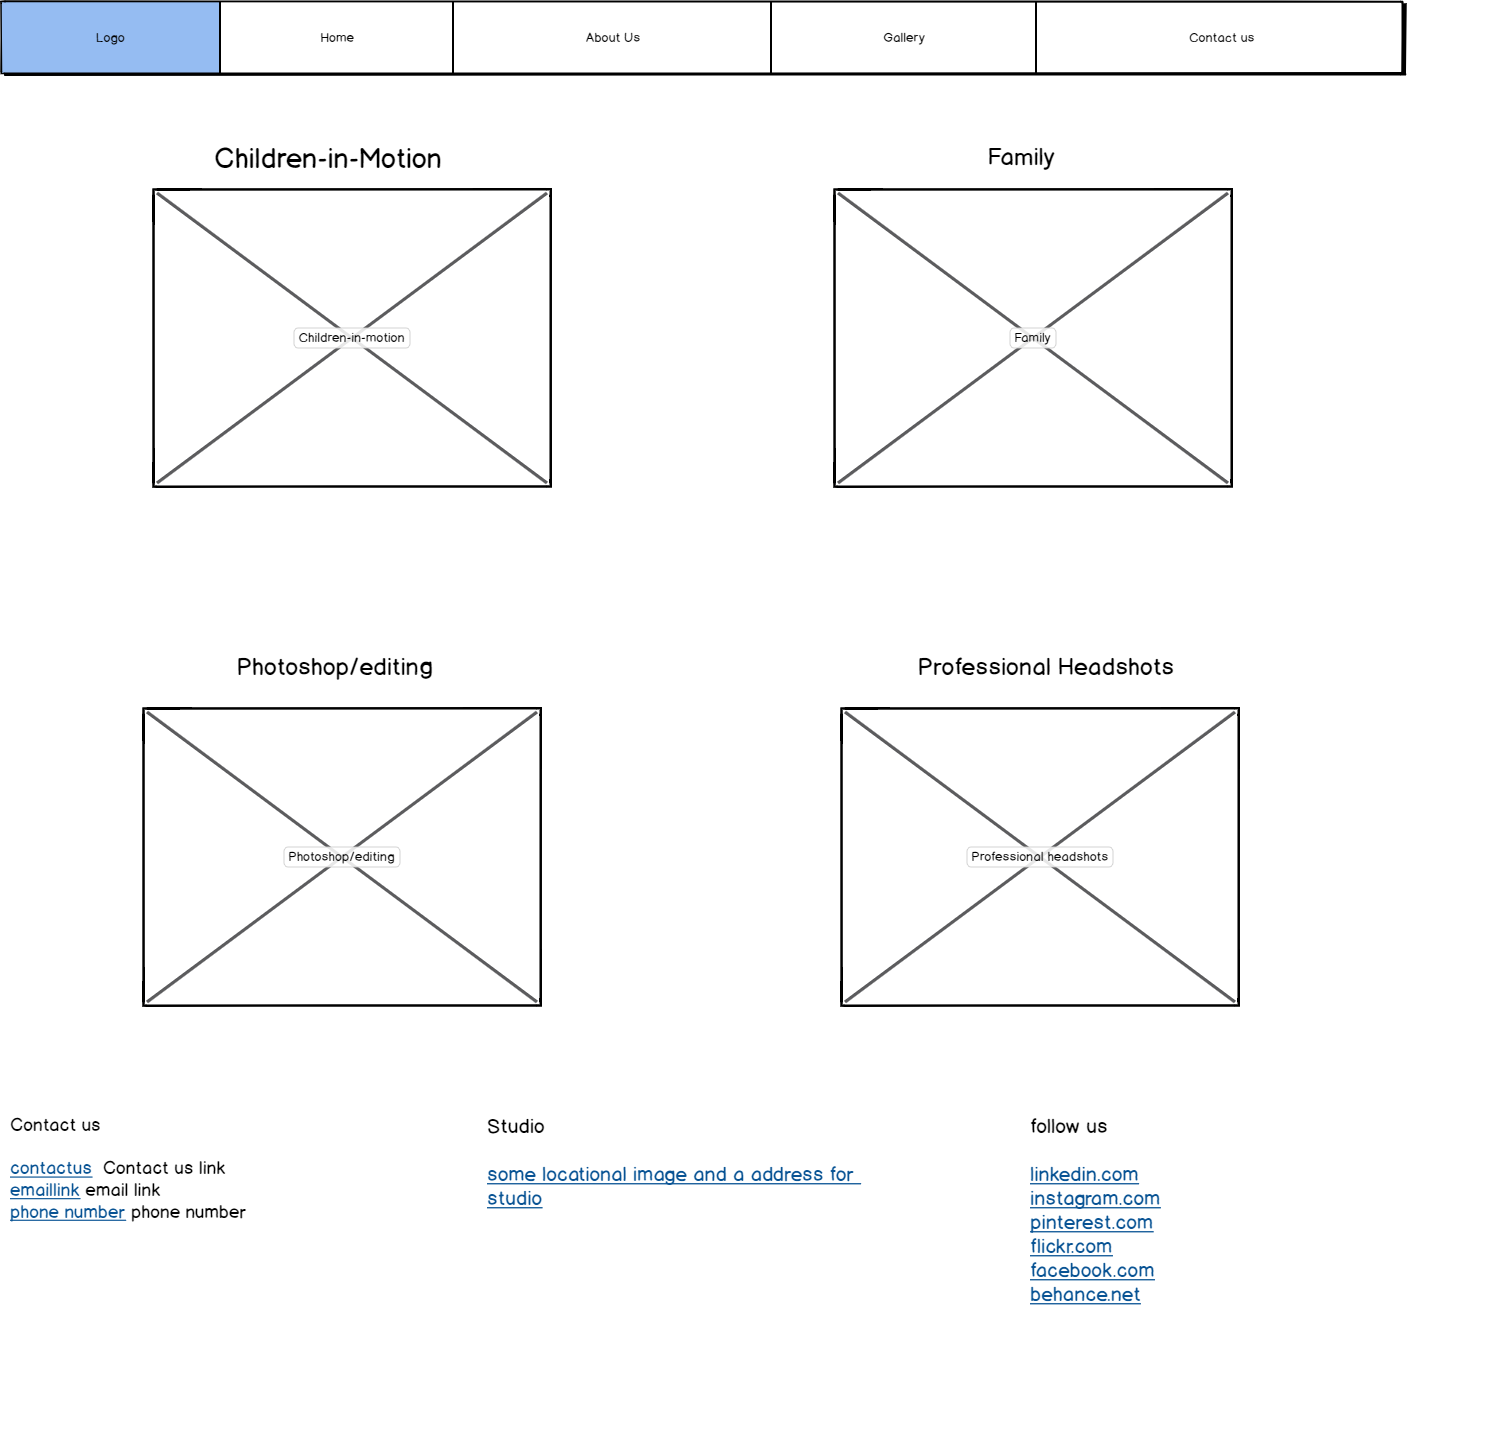
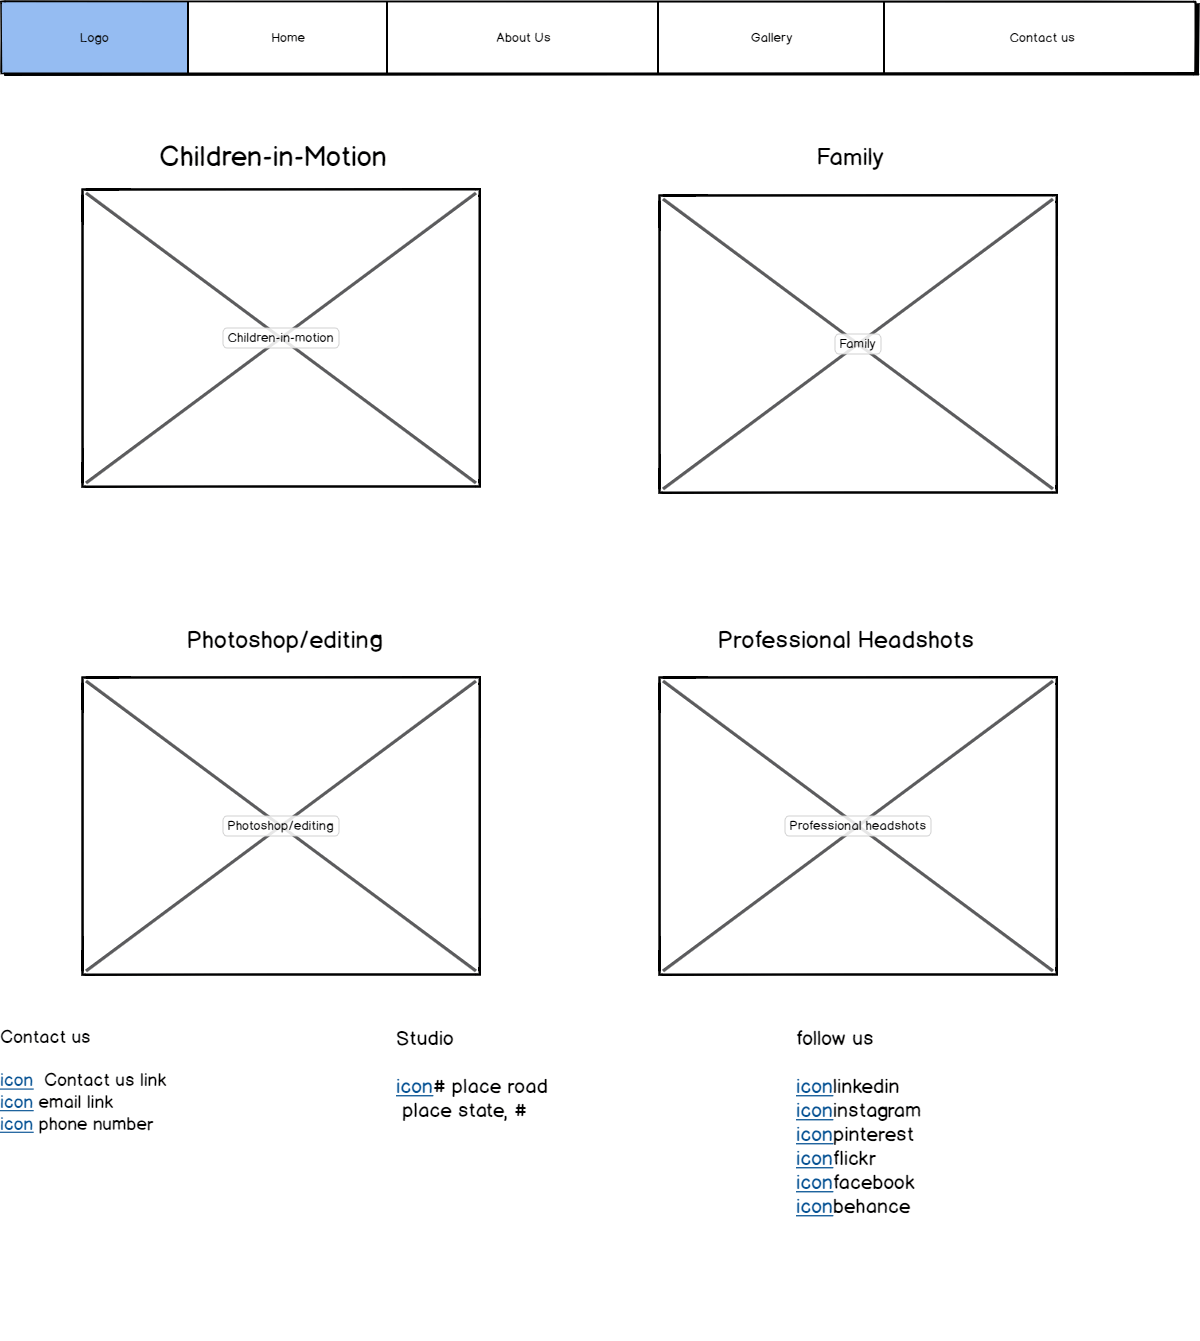
Minified file size of all images and wireframe, added brainstorm and first draft for read me, added phone wireframes

diff --git a/assets/css/css.css b/assets/css/css.css
@@ -63,11 +63,11 @@ hr {
     }
 }
 
+/*    ------------------------- index  carousel          ------------------*/
+
 .hero-carousel-pad {
     background-color: #010203;
 }
-
-/*    ------------------------- index  carousel   buttons       ------------------*/
 
 .hero-carousel div a:hover {
     background-color: rgba(238, 238, 238, .1);
@@ -540,6 +540,9 @@ hr {
 }
 
 .contact-header h3 {
+    font-family: "Yanone Kaffeesatz", sans-serif;
+    letter-spacing: 1px;
+    font-size: 40px;
     padding: 17px 0px 7px 0px;
 }
 

diff --git a/README.md b/README.md
@@ -1,123 +1,113 @@
-![alt text](assets/images/logo.png)
+![Monachese Photography](assets/images/logo.png "Monachese Photography")
 
 # Monachese Photography
-*--sales pitch--*
 
-This page shows the value provided by a professional photographer with editing skills. By showcasing a variety of different photos, photo taking techniques, and editing effects this helps 
-build a emotional value to product provided. With an obvious market of parents and grandparents applied to there is also others applied to: those wanting professional portraits taken, people
-wanting their photo's(or a photo taken that can be) turned into a frameable work of art, and real estate landscape photos taken(due to scope of project not implimented yet).
+This site allows a photographer's company to show off their brand and ability to digitally improve photos. The implied clientele is parents and grandparents, however this site
+also applies to a smaller market of young adults seeking business portraits and those seeking to digitally improve previously taken photo's.
 
-a 
+# Live Protype Demo and Wire Frame
 
-This website showcases a single photographer's aptitude for being behind the lens of his camera and using visual editing software. 
++ An active demo can be found [here](https://richardaeld.github.io/MonaMemorabilia/ "Web Page") at github. 
++ The wire frame png's can be found [here](https://github.com/Richardaeld/MonaMemorabilia/tree/master/assets/wireframe "Wire Frame") also at github.
 
-The main focus of this photographer is the emotional value of personal family moments. This  
+# UX Choices
 
-The art shown has family The main focus of this website is showcasing images that give emotional worth.    
+### Home
 
-There is a large focus on family photography to appeal to parents and grandparents alike.  To a lesser degree there are  
++ Shows off four eye drawing images in carousel
++ Gives a brief description of general services offered
 
+### About Us
 
-The focus of these photographs is mostly family portraits and children. There are other photographs that display a more artistic and formal side to this photographer. The family
-and children sections of photos is for selling photos to parents and grandparents. The portrait section is for selling to busisness women/men for professional porfolios. Finally
-the Digital Editing section is for selling artwork. The idea of this section is to appeal the largest clientel as possible. Changing a photo into a work of art is fairly simple
-and should yeild a greater profit with the upsale of a picture frame.
++ Hero image showing the difference with and without color grading
++ A text section emphasizing the above and beyond work offered by the company 
 
-The site is structured to give people a strong visual interest in the product being sold. With minimual use of text and an about us section that is about the user and improving
-their experience. This helps make the potiental client curious about the product and makes them want to communicate with the company. The lack of pricing was a tactful choice to 
-keep potiental clients from feeling like they cannot afford this service. This gives the site a chance to communicate as a person to person sales tactic.  The site may not make a 
-sale everytime but it gives an oppertunity to negociate a price and attempt an upsale rather than immediately losing a customer.  
+### Gallery
 
-*--ux--*
++ Makes use of negative space to draw the eye to four sub gallery links
++ Zoom feature when hovering over images to help confer it's a link
 
-The main purpose of this site is to sell session time blocks and digital editing packages. From the first page it highlights 4 different styles of photography   
+### Sub Gallery (all pages)
 
-*--features--*
++ Back button to main gallery and a two way in page nav for user convience
++ All images have an added border and shadow to give a 3 dimensional effect to help draw the eye
 
-# *site wide header*
-*4 major links for site navigation
-*a company logo that lives in the left corner which doubles as a Home nav button
-*collapses into a drop down list when to small to displat correctly, leaving only a burger and logo visiable
+### Contact us
 
-# *site wide footer*
-*footer has 3 clickable methods of contact on it 
-*a clickable location for the non-existant studio,  ***Cannot get it to display an accurate location 
-*6 clickable social media options for following that also display a simple css hover effect for added charm
++ Simple submission form that prevents users from accidently submitting without filling in contact information
++ Fitted with plenty of space for users to submit a well thought out idea or multiple questions
 
-# *Index.html*
-*responsiveness changes hero text-size 
-*Hero carousel used to help showcase some impressive and diverse photos on this page
-*Sub hero text is used to give clients a basic idea of sessions and extras offered and a push to give a comepletely custom session idea
+### Brand identity
 
-# *about us*
-*Large hero image of the editing service offered on the site with a header exclaiming the professional difference
-*3 text block catagories talking about what sets this company appart from the rest
++ fonts used
++ carries out logo colors
++ that last thing I can think of
 
-# *gallery*
-*heavy use of grey space to help 4 images stand out
-*a clean zoom effect used to show a hover effect
-*minimal use of header text to label the galleries
+# Potiental clients
 
-# *Sub-galley**(all are nearly identical code, only img and alt tags are different)*
-*Large header used to remind user where they are
-*A back arrow and text left in top left corner for returning to main gallery page
-*under header is 5 images that are used as a in page nav to snap to the larger image
-*invisible command is used on generic picture text for in page nav to snap to which helps center on intended image
-*below each large picture is a clickable back to top which takes the user to the top of the screen
++ A: Is looking for a candid photo
+    + Sees the home page carousel and describes a business portrait in the "Describe your session needs" on Contact Us page
 
-# *contact us*
-*a inviting green is used on the form, the only background color that is not a neutral color
-*header is to let users know they are on a submission form 
-*each part of form's 4 basic customer info enteries is labeled with a tiny header over it and placeholder text
-*below those 4 is a radio button for allowing the site to know how the user wishes to be contated
-*The last box is a 4 lined box for the customer to have plenty of room to add their entire idea(s) for a generic or custom session
++ B: Wants a frameable photo of child to give to grandparents  
+    + Finds an artistic color graded photo in Children Gallery page 
 
++ C: Has an idea for a photo session that is non standard
+    + Home page has a small section about custom projects w/ button to submit custom ideas
 
++ D: Is looking for previously taken photos to be digitally edited
+    + Sees the half edited photo on About us page and decides that the style they like
 
-## --existing features --
+# Testing
 
-## --features left to implement --
-*Photo slider to change photo from before digital editing to after (Would be neat but outside of scope of project)
-*use of a modal in sub-gallery pages to pop up a picture rather than relying on a in page nav
+# Previous Bugs
 
-## --technologies used--
-***Check these
-    **JS
-    **JQuery
-    **Believe bother are used with bootstraps carousel
+Numerous graphical misalignments were experienced during the construction of this project.  These were primarily generated by bootstrap creating padding and margins with 
+the use of rows and container-fluid commands. Thus they were easily taken care of with appropiate padding/margin removal and use of "!important".
 
-## --testing --
-*I use a 1920x1080 monitor in landscape and profile
-    **Use inspect in chrome to check every preset responsiveness in both landscape and profile on both of my monitors.
-*also use a projector with a browser zoom to help see and find visual problems
+# Scalability 
 
-***Known problems include site not going to bottom of screen (ex: leaving white space below bottom of footer)
++ Photo slider to change photo from before digital editing to after (Would be neat but outside of scope of project)
++ Use of a modal in sub-gallery pages to pop up a picture rather than relying on a in page nav 
 
-## --deployment--
-*single git branch
-*drawing of ideas on pen and paper  
-*negative feed back from mentor lead to a total rewrite of webpage
-*updates after rewrite focused on responsiveness and a more minimal approach to code
-*numerous updates were based on image placement, reduction of image size(KB), standardization of image ratio(1200x800 or 800x1200), and finding images that "sold" the product
+# Technologies
 
+## Languages 
++ HTML
++ CSS
++ JS (With Bootstrap)
++ JQuery (With Bootstrap)
+
+## Framework
++ [Bootstrap](https://getbootstrap.com/) 
++ [Balsmiq](https://balsamiq.com/)
+
+## Web based tools
+
++ GitHub - Deployment of prototype site
++ GitPod - Integrated development environment and deployment
++ Pingdom - Checking for page load time
++ BrowserStack - Checking for platform incompatibility
++ tiny.png - Minimizing KB load per photo
++ fontawesome - Icons used
++ google fonts - Fonts used 
++ W3C Validator 
+
+## Web based references
+
++ [webaccessibilitychecklist](http://webaccessibilitychecklist.com/) - Helpped make page Aria accessible
++ [MDN web docs](https://developer.mozilla.org/en-US/docs/Learn/Accessibility/What_is_accessibility) -  helped with understanding when to use aria
++ [w3schools](https://www.w3schools.com/) - helped fine tune css and accomplish vision
++ [stack overflow](https://stackoverflow.com/) - helped understand how to correct bugs and accomplish vision
 
 
-## -------------credits-------------
+# Acknowledgements 
 
-## --content--
-https://developer.mozilla.org/ -- helped with understanding when to use aria
-https://www.w3schools.com/ -- provided ideas for css/html tricks
-https://stackoverflow.com/ -- helped understand how to correct bugs
-The footer, "follow us on" section was inspired by class videos.
-The front pages hero carousel frame was taken from bootstrap.
-The subgallerys snap to top was taken from bootstrap scroll spy
-The contact us pages form was taken from 3 different parts of bootstraps form page.
-
-## --media--
-fontawesome
-bootstrap
-google fonts
 The photos and logo were created by the same person, "Micheal Monachese" 
 
-## --acknowledgements--
-The idea of this website came from a childhood friend Ive been watching struggle sense covid-19 has shrunk his current business
+The idea of this website came from a childhood friend that has a forte a photography
+
+
+
+
+
+
